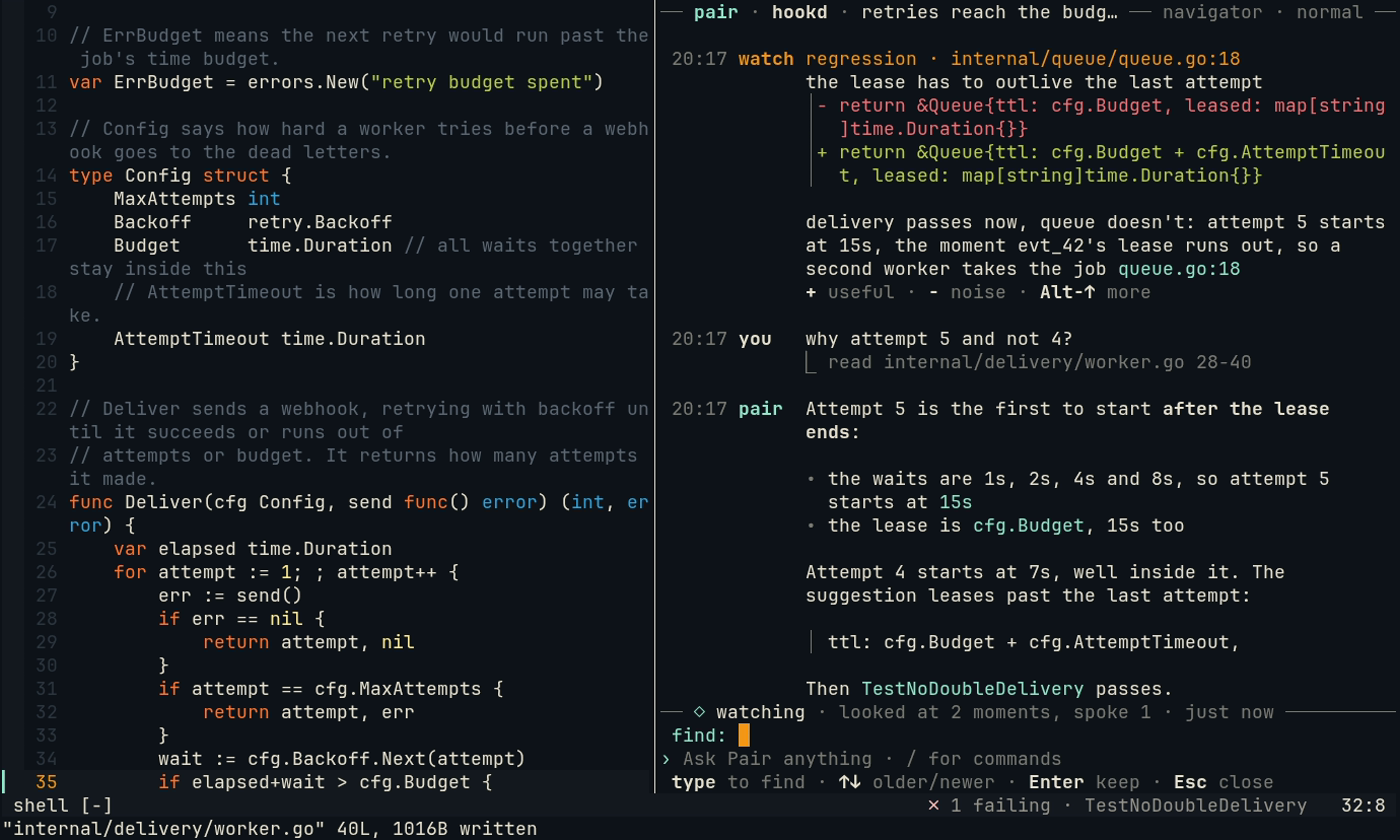
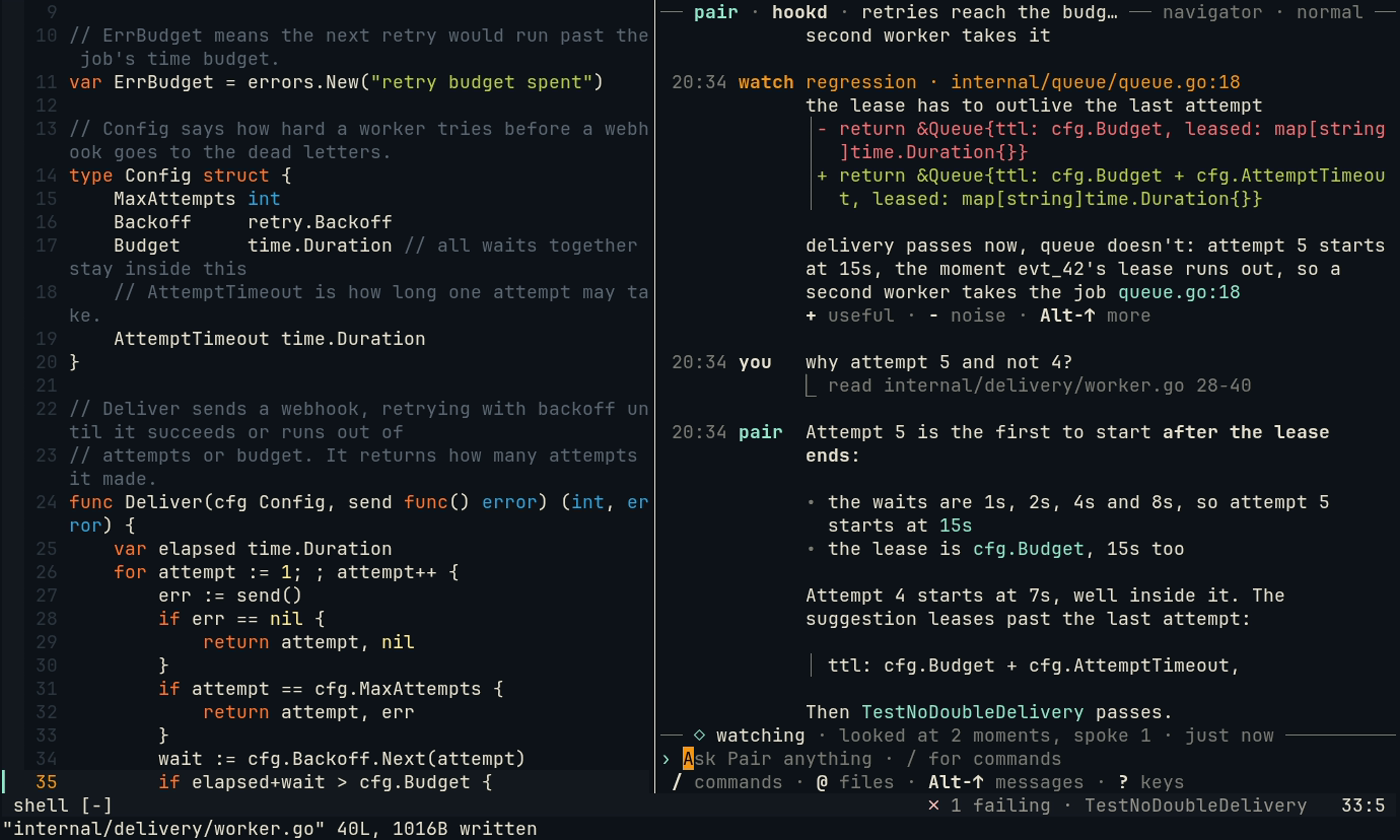
Chat pane: a command shown whole, Esc drops a typed answer, review fixes
The session sends the command it asks about with the question, and the
pane's code bar shows that copy: a command with backticks of its own
(`ls `pwd`/build`, which the policy always asks about) was cut at its
first inner backtick. Esc while Pair asks declines and drops what you had
typed, so the next Enter does not send it as a question. A goal set
elsewhere while Pair's question for it is open shows as a note under it;
one you typed is still not said again. The driver status and the help's
header carry no dim sentences. docs/chat.md quotes the measured contrast.
The chat, held-thought and debrief captures are recorded again.

Changed region(s): [[0.4607, 0.031, 1.0, 0.9595]]

diff --git a/docs/chat.md b/docs/chat.md
@@ -31,7 +31,7 @@ Four rows of chrome, two of them rules with words in them; the rest is the conve
   | `!!` | An error, such as a model that does not answer, with what to check |
 
   Before Pair runs or types a command it asks, as `pair`: the question in words, and the command under it behind a
-  bar, whole, to read and copy. `y` allows it, `n` or `Esc` declines, or type an answer (the name of another
+  bar, whole (backticks in it too), to read and copy. `y` allows it, `n` or `Esc` declines (and drops what you had typed), or type an answer (the name of another
   terminal, where it offers one); the footer shows those keys, and the message says what you answered.
 
   ```
@@ -43,7 +43,8 @@ Four rows of chrome, two of them rules with words in them; the rest is the conve
   ```
 
   The goal you type, or the one Pair took from the board or the branch, is in the header; the conversation does not
-  say it again.
+  say it again. Only a goal set elsewhere (`:Pair goal`) while Pair's question for it is open shows as a `··` note
+  under the question, to answer it.
 
   Pair's words are Markdown: `code` shows in Pair's accent, **bold** as bold, _italics_ in italics, a link as its
   words with the address after them, lists with a hanging indent, headings, quotes, and code blocks behind a bar, not
@@ -176,9 +177,10 @@ that light themes wash out:
 | Dim | Chrome: the rules, the times, what a key in the footer does, the `⎿` tool lines, a fold, a link's address |
 | Green, red | `+` and `-` lines of a diff; an error, in red |
 
-In light themes the dim and yellow of most palettes fall below 3 : 1 against the background (Solarized Light, Tokyo
-Night Day, xterm's default light), so no sentence is set in either: the y/N question is body text with its command
-behind a bar, and only the keys `y` and `n`, in bold, keep the yellow.
+Light themes are where dim and yellow fade: against the background, dim is about 2 : 1 in Tokyo Night Day and
+Solarized Light, and yellow is 3.0 : 1 in Solarized Light and 1.7 : 1 in xterm's default light (body text wants
+4.5 : 1). So no sentence is set in either: the y/N question is body text with its command behind a bar, and only the
+keys `y` and `n`, in bold, keep the yellow.
 
 ## The plain pane
 
